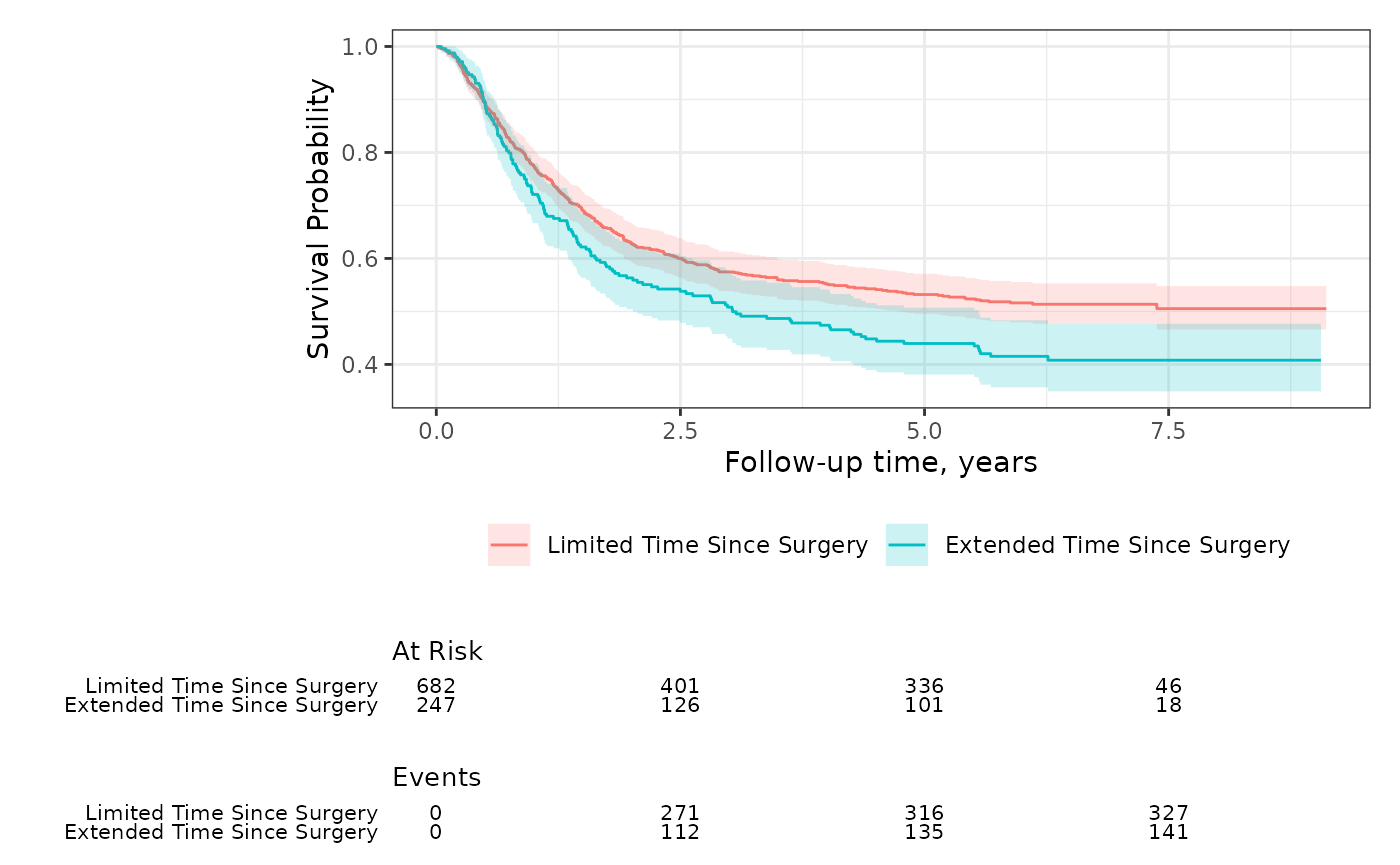
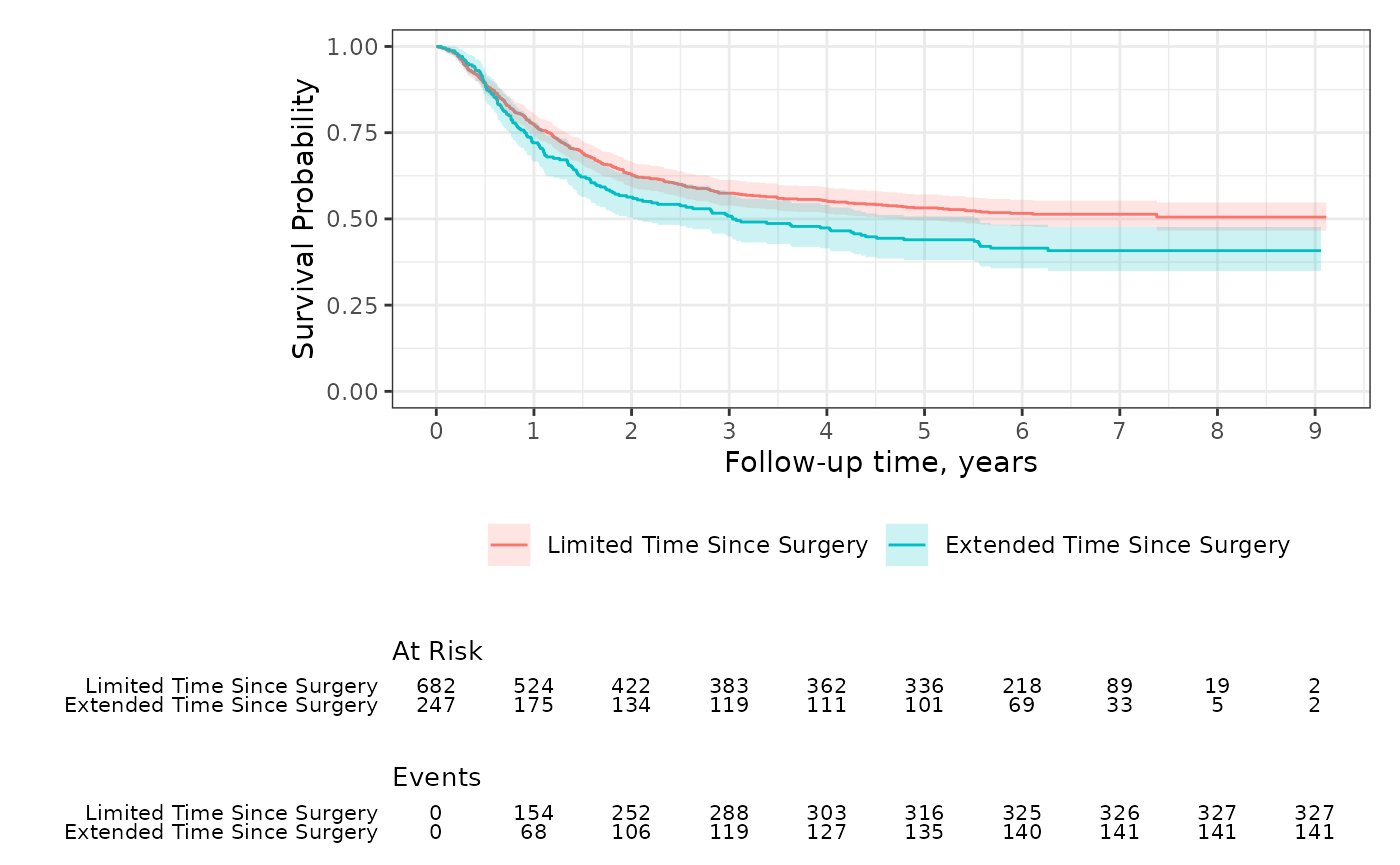
Deploying to gh-pages from @ ddsjoberg/ggsurvfit@a7320793fcf714a590e3bc7f77a1ed3e780a5bd9 🚀

diff --git a/articles/gallery.html b/articles/gallery.html
@@ -168,12 +168,14 @@
 <span>  <span class="fu"><a href="../reference/add_confidence_interval.html">add_confidence_interval</a></span><span class="op">(</span><span class="op">)</span> <span class="op">+</span></span>
 <span>  <span class="fu"><a href="../reference/add_risktable.html">add_risktable</a></span><span class="op">(</span><span class="op">)</span></span></code></pre></div>
 <p><img src="gallery_files/figure-html/unnamed-chunk-5-1.png" width="700"></p>
-<p>You can also group the risktable by the statistics rather than the stratum.</p>
+<p>You can also group the risk table by the statistics rather than the stratum. Let’s also add additional time points where the statistics are reported and extend the y axis.</p>
 <div class="sourceCode" id="cb6"><pre class="downlit sourceCode r">
 <code class="sourceCode R"><span><span class="fu"><a href="../reference/survfit2.html">survfit2</a></span><span class="op">(</span><span class="fu"><a href="https://rdrr.io/pkg/survival/man/Surv.html" class="external-link">Surv</a></span><span class="op">(</span><span class="va">time</span>, <span class="va">status</span><span class="op">)</span> <span class="op">~</span> <span class="va">surg</span>, data <span class="op">=</span> <span class="va">df_colon</span><span class="op">)</span> <span class="op"><a href="https://magrittr.tidyverse.org/reference/pipe.html" class="external-link">%&gt;%</a></span></span>
 <span>  <span class="fu"><a href="../reference/ggsurvfit.html">ggsurvfit</a></span><span class="op">(</span><span class="op">)</span> <span class="op">+</span></span>
 <span>  <span class="fu"><a href="../reference/add_confidence_interval.html">add_confidence_interval</a></span><span class="op">(</span><span class="op">)</span> <span class="op">+</span></span>
-<span>  <span class="fu"><a href="../reference/add_risktable.html">add_risktable</a></span><span class="op">(</span>risktable_group <span class="op">=</span> <span class="st">"risktable_stats"</span><span class="op">)</span></span></code></pre></div>
+<span>  <span class="fu"><a href="../reference/add_risktable.html">add_risktable</a></span><span class="op">(</span>risktable_group <span class="op">=</span> <span class="st">"risktable_stats"</span><span class="op">)</span> <span class="op">+</span></span>
+<span>  <span class="fu"><a href="https://ggplot2.tidyverse.org/reference/scale_continuous.html" class="external-link">scale_x_continuous</a></span><span class="op">(</span>breaks <span class="op">=</span> <span class="fl">0</span><span class="op">:</span><span class="fl">9</span><span class="op">)</span> <span class="op">+</span></span>
+<span>  <span class="fu"><a href="https://ggplot2.tidyverse.org/reference/scale_continuous.html" class="external-link">scale_y_continuous</a></span><span class="op">(</span>limits <span class="op">=</span> <span class="fu"><a href="https://rdrr.io/r/base/c.html" class="external-link">c</a></span><span class="op">(</span><span class="fl">0</span>, <span class="fl">1</span><span class="op">)</span><span class="op">)</span></span></code></pre></div>
 <p><img src="gallery_files/figure-html/unnamed-chunk-6-1.png" width="700"></p>
 <p>Use <code><a href="../reference/add_risktable_strata_symbol.html">add_risktable_strata_symbol()</a></code> to replace long stratum labels with a color symbol.</p>
 <p>Without <code><a href="../reference/add_risktable_strata_symbol.html">add_risktable_strata_symbol()</a></code>:</p>
